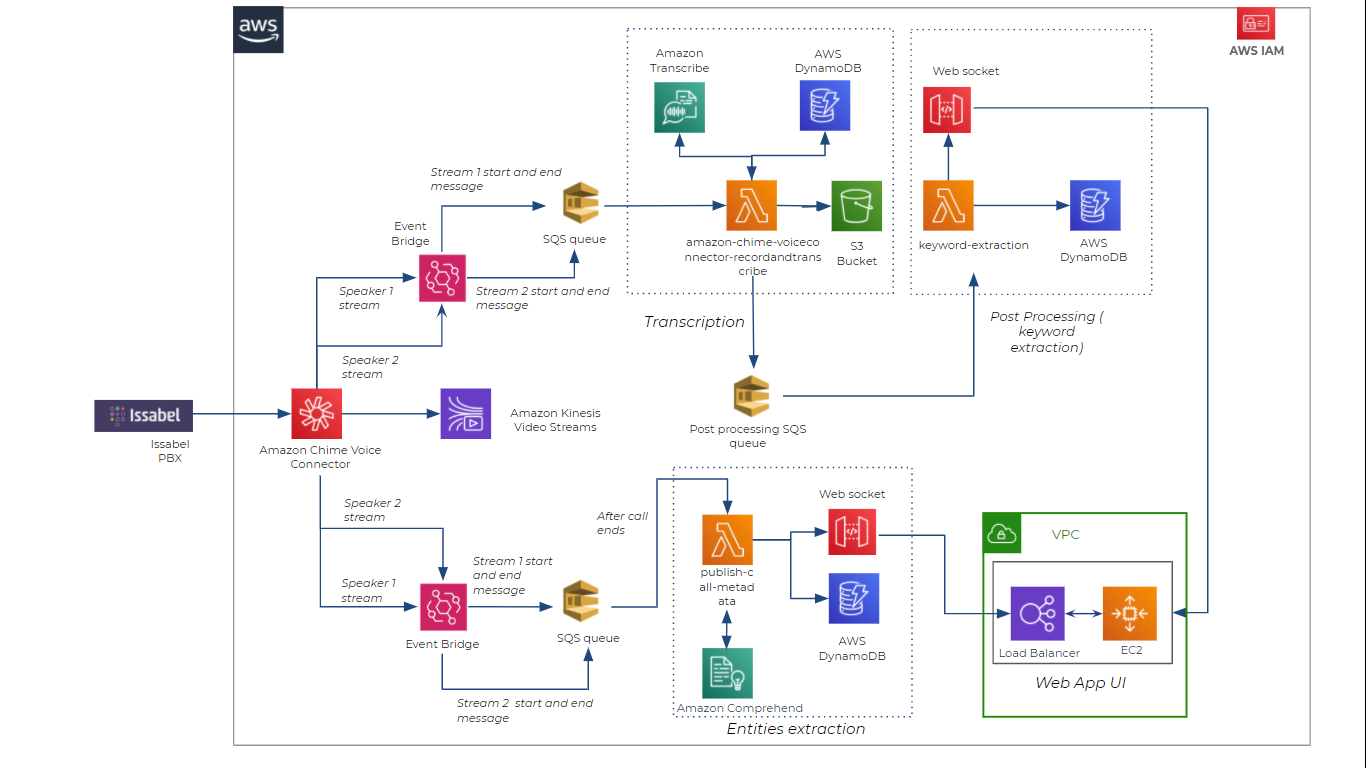
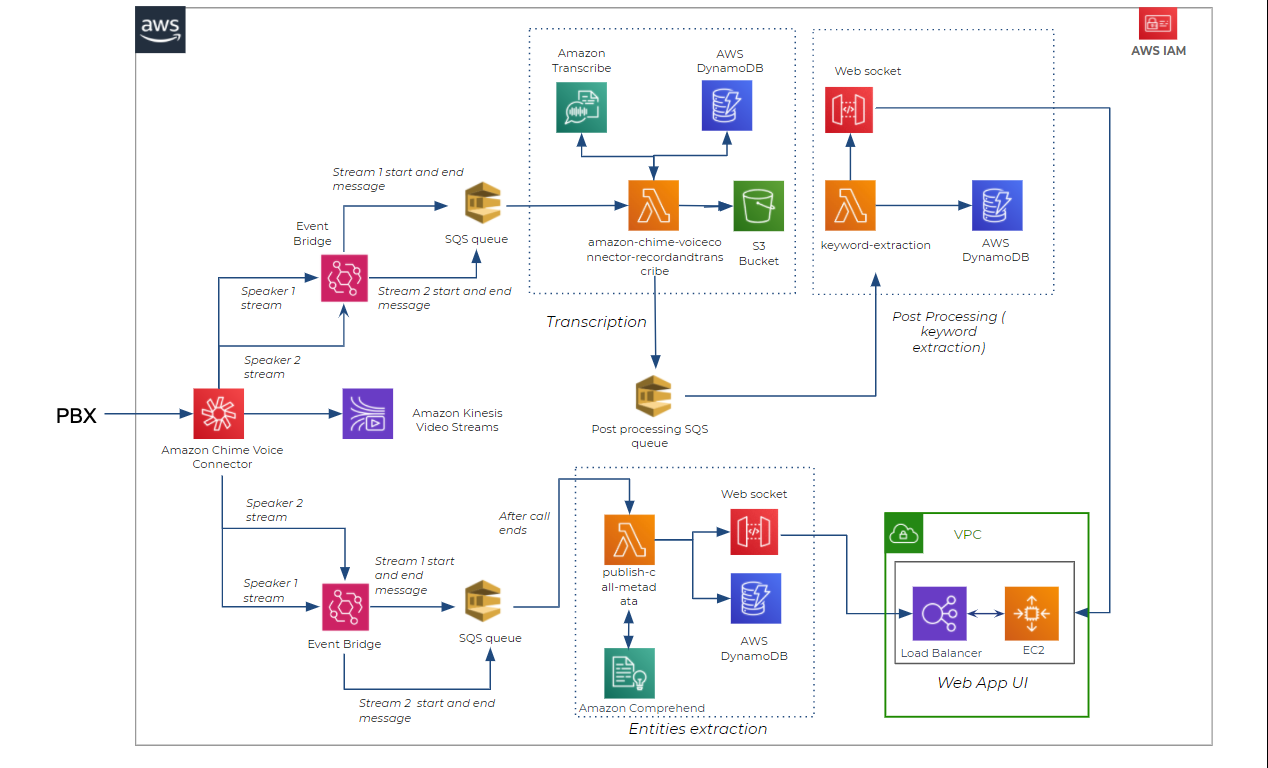
Update readme

diff --git a/README.md b/README.md
@@ -1,17 +1,17 @@
 ## Real Time Call Analytics Quick Start
 
-This Quick Start reference deployment guide provides step-by-step instructions for deploying UiPath Robot on AWS Cloud.
+This Quick Start reference deployment guide provides step-by-step instructions for deploying Real time call analytics solution on AWS Cloud.
 
 This Quick Start sets up Real-Time transcript generator which can be used by organizations to improve and optimize the remote support by providing users with the ability to create a user interface, where the live call transcripts can be displayed in near real time along with extraction of keywords, metadata and summary of the call.
 
-The [AWS CloudFormation template](https://console.aws.amazon.com/cloudformation/home?region=us-east-1#/stacks/create/template?stackName=realtime&templateURL=https://aws-quickstart.s3.amazonaws.com/quickstart-quantiphi-realtime-analytics/templates/analytics-main.template.yaml) included with the Quick Start automates deploying UiPath Robot on AWS. You can also use the AWS CloudFormation template as a starting point for your own implementation.
+The [AWS CloudFormation template](https://console.aws.amazon.com/cloudformation/home?region=us-east-1#/stacks/create/template?stackName=realtime&templateURL=https://aws-quickstart.s3.amazonaws.com/quickstart-quantiphi-realtime-analytics/templates/analytics-main.template.yaml) included with the Quick Start automates deploying Real time call analytics solution on AWS. You can also use the AWS CloudFormation template as a starting point for your own implementation.
 
 ![Quick Start architecture for UiPath Robot on AWS](./docs/images/quantiphi-architecture-diagram.png)
 
 As shown in the architecture diagram, the Quick Start sets up the above architecture that follows below steps:
-* The call stream between customer and the agent / provider will be received from Issabel PBX to Amazon Chime Voice Connector in two different streams.
+* The call stream between customer and the agent / provider will be received from PBX to Amazon Chime Voice Connector in two different streams.
 
-* The chime voice connector streams the audio streams into Kinesis Video Streams
+* The chime voice connector streams the audio streams into Kinesis Video Streams.
 
 * The streams of the two speakers trigger the two eventbridge rules simultaneously.
 
